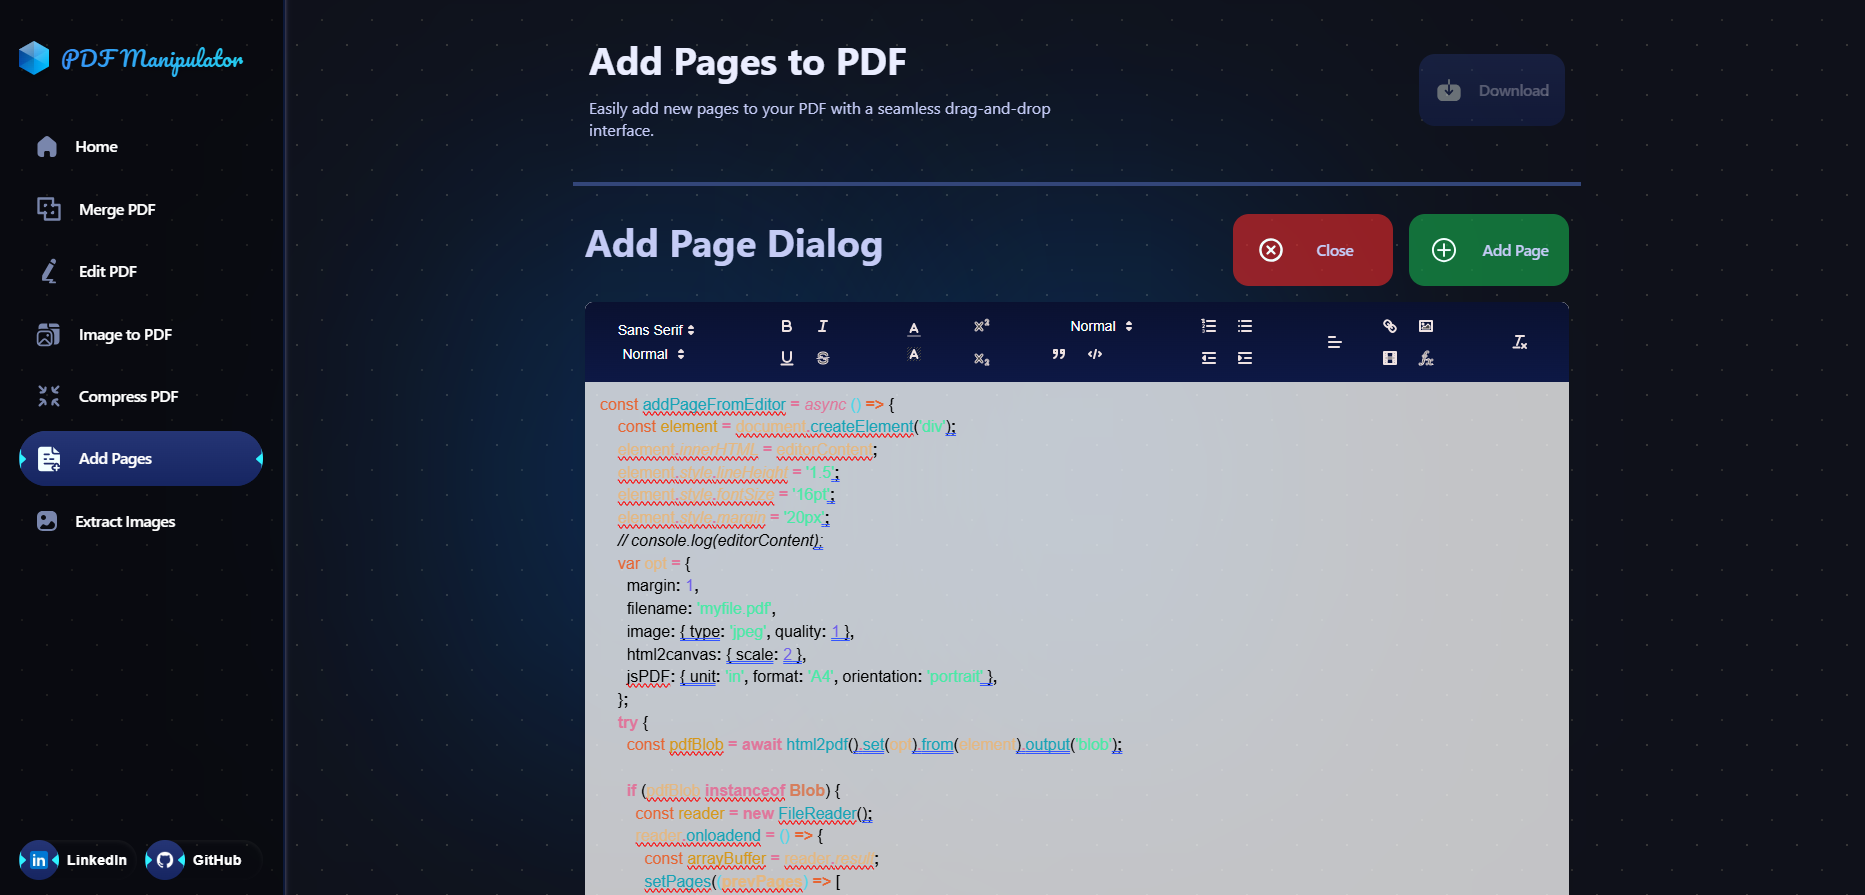
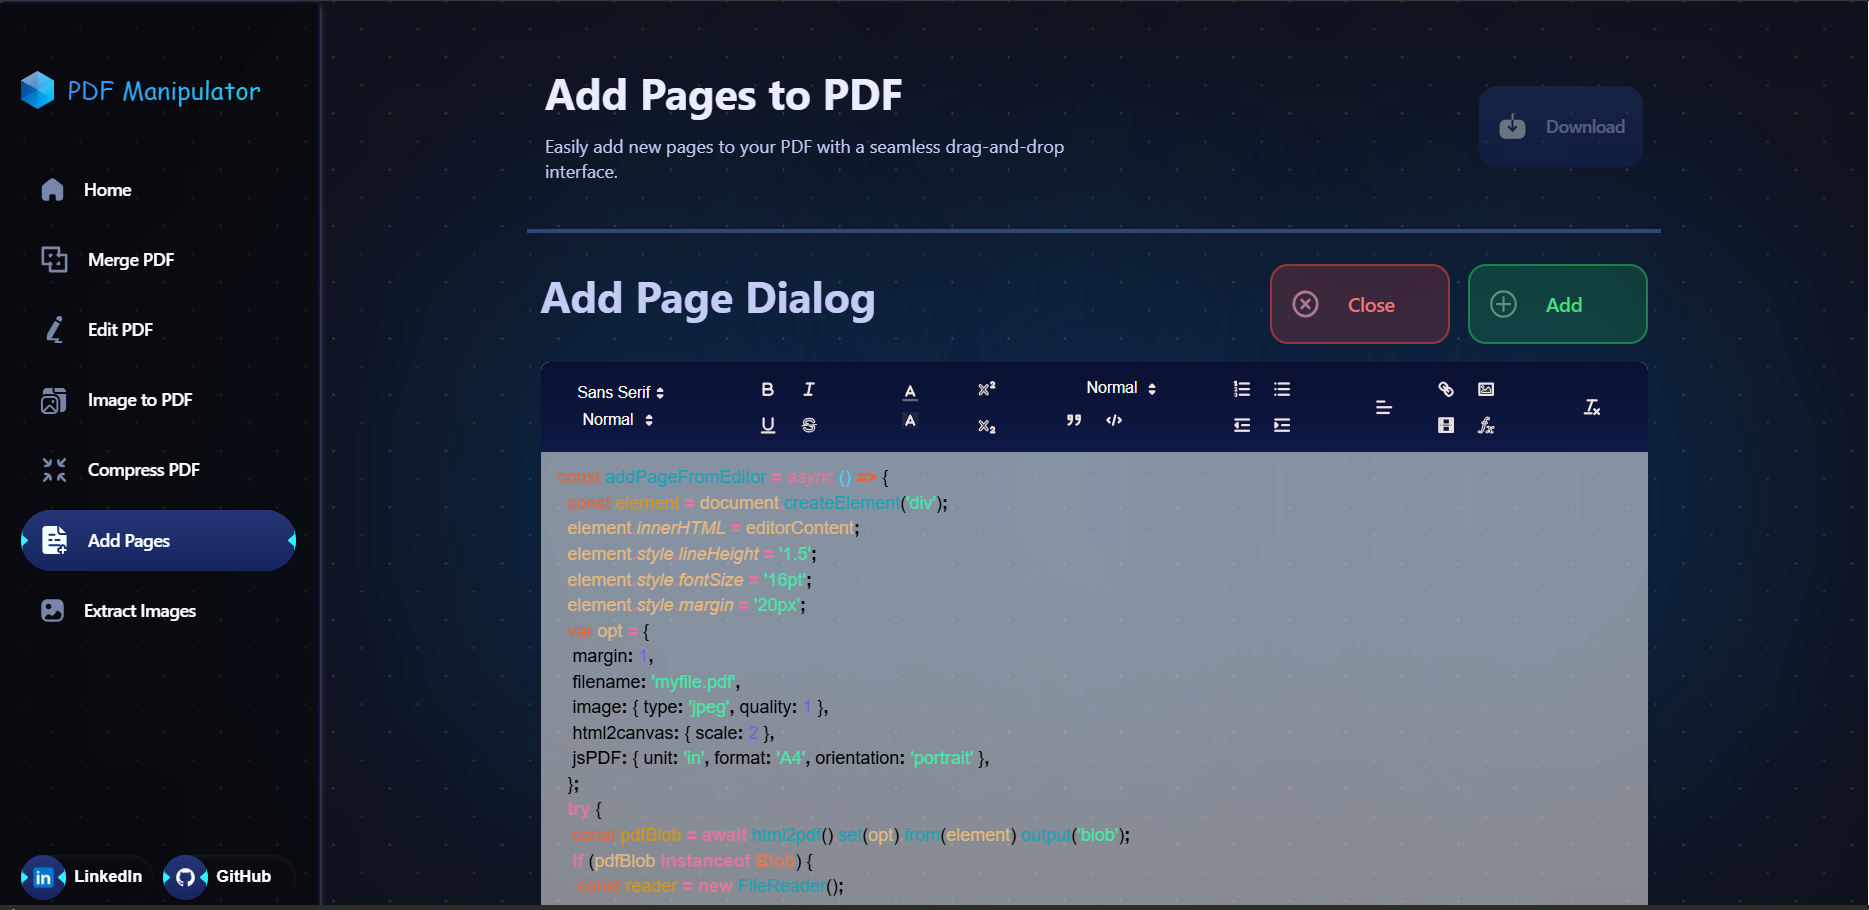
small ui changes

diff --git a/components/Core/AddPages.jsx b/components/Core/AddPages.jsx
@@ -459,16 +459,17 @@ const AddPages = () => {
                   onClick={closeDialog}
                   className={`flex w-full flex-row  justify-center rounded-2xl group mt-4`}
                 >
-                  <span className="relative min-w-36 md:min-w-40 bg-red-600 bg-opacity-65  flex justify-around items-center w-fit before:g7  min-h-fit px-4 py-2 rounded-2xl before:absolute before:inset-0 before:opacity-0 before:transition-opacity before:duration-500 before:content-[''] group-hover:before:opacity-100  overflow-hidden">
+                  <span className="relative min-w-36 md:min-w-40 before:g7  min-h-fit px-4  overflow-hidden flex  gap-3 w-full justify-center py-2 items-center bg-red-500  bg-opacity-20 p-2  rounded-2xl border-2 border-red-500 border-opacity-50 backdrop-blur-md">
                     <Image
                       src="/images/close.svg"
                       alt="logo"
                       width={28}
                       height={28}
+                      style={{ filter: 'hue-rotate(90deg)' }}
                       className="brightness-200 "
                     />
 
-                    <span className="font-semibold text-16 flex gap-4 p-4 text-p5">
+                    <span className="font-semibold text-[18px] flex w-full gap-4 p-3 pr-0 text-red-400">
                       Close
                     </span>
                   </span>
@@ -477,16 +478,17 @@ const AddPages = () => {
                   onClick={addPageFromEditor}
                   className={`flex w-full disabled:opacity-40 disabled:cursor-not-allowed justify-center lg:justify-center rounded-2xl group mt-4 `}
                 >
-                  <span className="relative min-w-36 md:min-w-40 flex justify-around items-center w-fit bg-opacity-65 bg-green-600 before:g7 min-h-fit px-4 py-2 rounded-2xl before:absolute before:inset-0 before:opacity-0 before:transition-opacity before:duration-500 before:content-[''] group-hover:before:opacity-100  overflow-hidden">
+                  <span className="relative min-w-36 md:min-w-40 before:g7  min-h-fit px-4  overflow-hidden flex  gap-3 w-full justify-center py-2 items-center bg-green-500  bg-opacity-20 p-2  rounded-2xl border-2 border-green-500 border-opacity-50 backdrop-blur-md">
                     <Image
                       src="/images/plus.svg"
                       alt="logo"
                       width={28}
                       height={28}
+                      style={{ filter: 'hue-rotate(270deg)' }}
                       className="brightness-200"
                     />
-                    <span className="font-semibold text-16 flex gap-4 p-4 pr-0 text-p5">
-                      Add Page
+                    <span className="font-semibold text-[18px] flex w-full gap-4 p-3 pr-0 text-green-400">
+                      Add
                     </span>
                   </span>
                 </button>
@@ -496,7 +498,7 @@ const AddPages = () => {
               <QuillEditor
                 value={editorContent}
                 onChange={setEditorContent}
-                classes={" h-full w-full   overflow-hidden flex flex-col"}
+                classes={" h-full w-full bg-opacity-50   overflow-hidden flex flex-col"}
                 placeholder="Start typing to create a new page..."
               />
             </div>

diff --git a/app/utils/QuillEditor.jsx b/app/utils/QuillEditor.jsx
@@ -41,7 +41,7 @@ const Editor = ({ value, onChange, placeholder,classes,radius="" }) => {
               color:"black",
               width:"100%",
             }}
-            className={`text-black bg-white bg-opacity-75 rounded-lg shadow-lg ${classes}`}
+            className={`text-black bg-white rounded-lg shadow-lg ${classes}`}
           />
   );
 };
